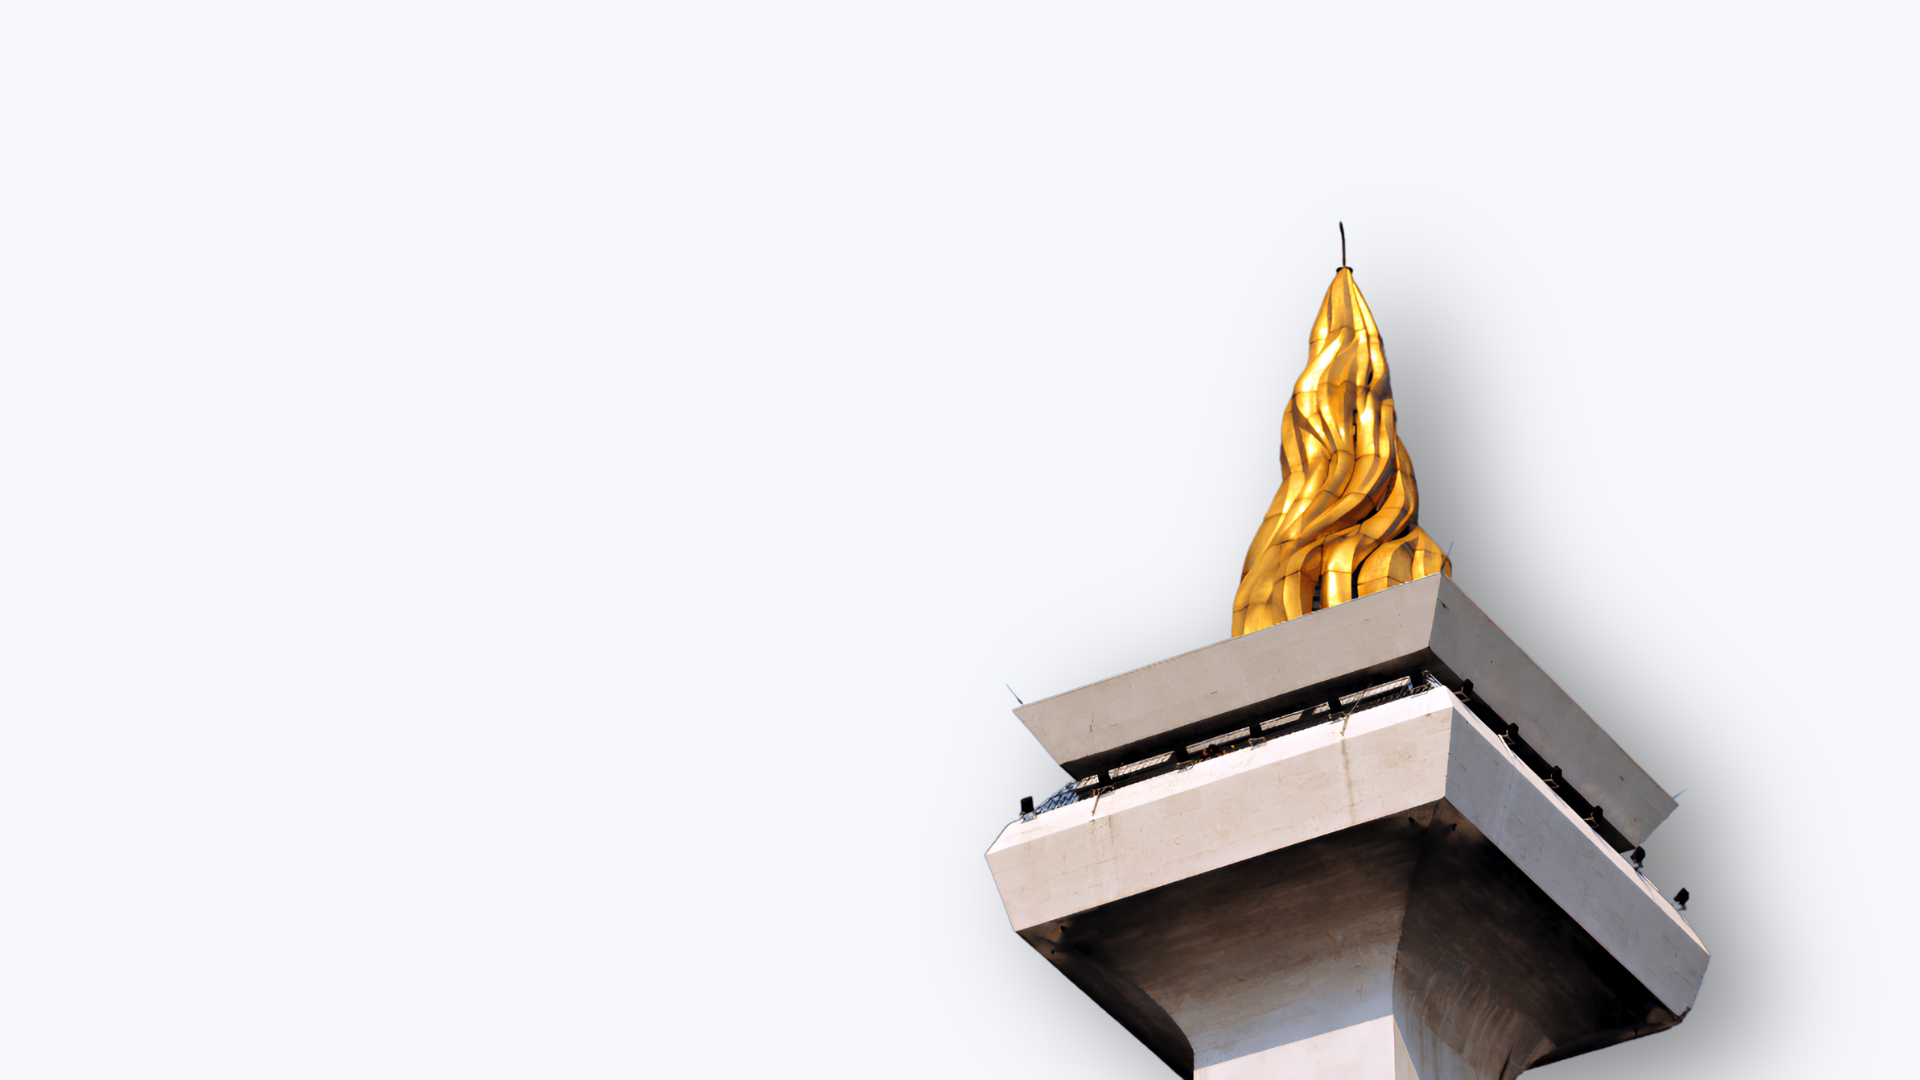
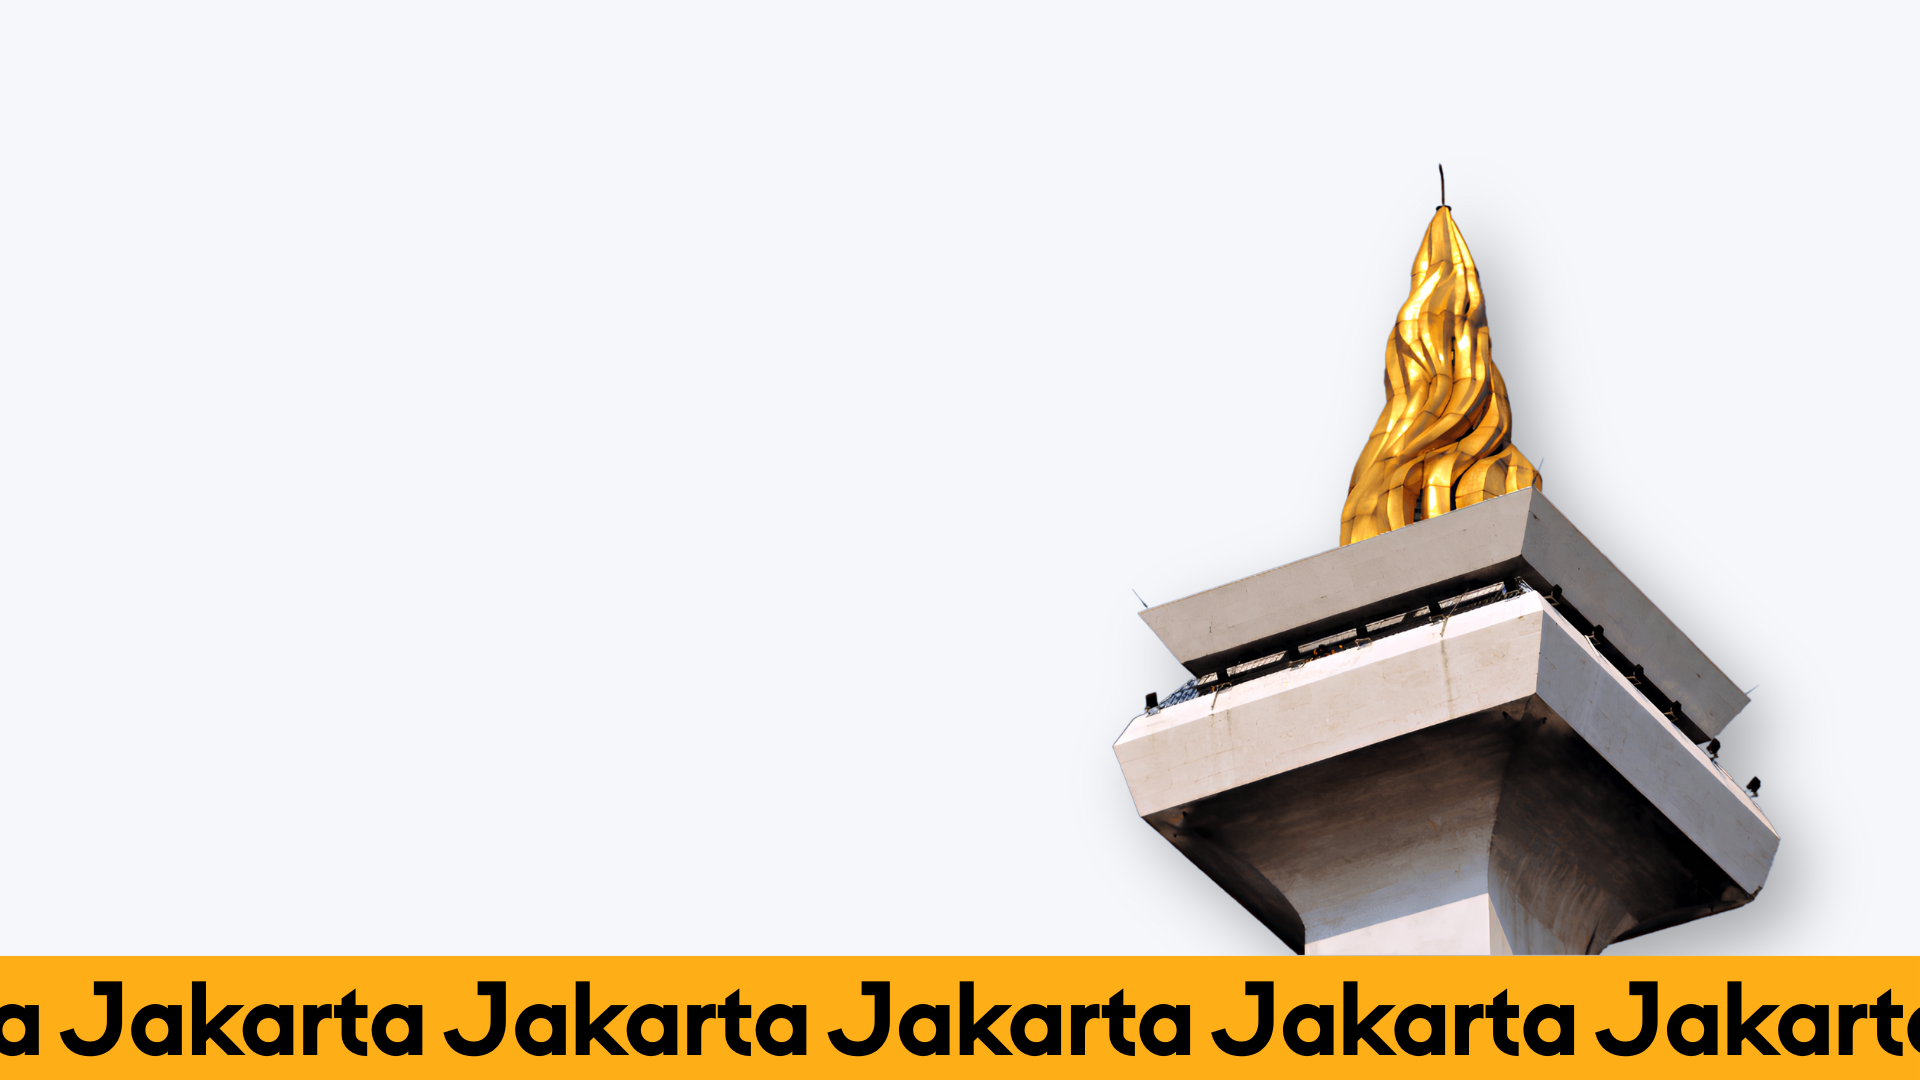
added ar2 sections

Changed region(s): [[0.0, 0.1833, 1.0, 1.0]]

diff --git a/style.css b/style.css
@@ -1,6 +1,9 @@
 @import url('https://fonts.googleapis.com/css2?family=Poppins:ital,wght@0,100;0,200;0,300;0,400;0,500;0,600;0,700;0,800;0,900;1,100;1,200;1,300;1,400;1,500;1,600;1,700;1,800;1,900&display=swap');
 @import url('https://fonts.googleapis.com/css2?family=Lexend:wght@100..900&display=swap');
 
+html {
+      scroll-behavior: smooth;
+}
 body {
       font-family: "Poppins", sans-serif;
       background-color: rgb(246, 247, 251);
@@ -53,11 +56,17 @@ li a {
       padding: 0vh 1vw;
 }
 
+li:hover, a:hover {
+      color: rgb(218, 149, 22);
+}
+
 .ar1 {
       background-image: url(resources/bghero.png);
+      background-position: center center;
+      background-size: cover;
+      background-repeat: no-repeat;
       display: flex;
       height: 100vh;
-      width: 100vw;
       align-items: center;
 }
 
@@ -79,16 +88,84 @@ li a {
 }
 
 .ar1sec1 span {
-      background-color: black;
       padding: 0.5vh 0.5vw;
       border-radius: 1vw;
-      color: white;
+      color: black;
       font-family: "Lexend", sans-serif;
       font-weight: 600;
-      font-size: 5vw;
+      font-size: 7vw;
 }
 
 .ar1sec1 p {
       font-size: 1.5vw;
 }
 
+.ar2 {
+      display: flex;
+      flex-direction: column;
+      height: 100vh;
+      padding-top: 10vh;
+}
+
+.ar2sec1 {
+      display: flex;
+      flex-direction: column;
+      justify-content: center;
+      width: 60vw;
+      padding: 3vh 3vw;
+      margin: 0 0;
+}
+
+.ar2sec1title {
+      display: flex;
+      background-color: rgb(254, 174, 23);
+      padding: 1vh 1vw;
+      margin: 0 0;
+      color: black;
+      align-items: center;
+      border-top-left-radius: 1vw;
+      border-top-right-radius: 1vw;
+}
+
+.ar2sec1title h2 {
+      padding: 0 0;
+      margin: 0 0;
+      font-size: 2vw;
+      font-weight: 500;
+}
+
+.ar2sec1content {
+      display: flex;
+      flex-direction: column;
+      text-align: left;
+      gap: 3vh;
+      background-color: white;
+      padding: 1vh 1vw;
+      margin: 0 0;
+      border-bottom-left-radius: 1vw;
+      border-bottom-right-radius: 1vw;
+}
+
+.ar2sec1content p {
+      font-size: 1.5vw;
+      padding: 0 0;
+      margin: 0 0;
+}
+
+.ar2sec1content span {
+      font-size: 1.3vw;
+      padding: 0 0;
+      margin: 0 0;
+}
+
+.ar2sec1content a {
+      text-decoration: none;
+      color: rgb(218, 149, 22);
+      padding: 0 0;
+      margin: 0 0;
+}
+
+.ar2sec1title:hover, .ar2sec1content:hover {
+      box-shadow: 0px 0px 50px rgba(118, 116, 116, 0.1);
+      transition: linear 0.2s;
+}

diff --git a/index.html b/index.html
@@ -38,6 +38,28 @@
                               <img src="" alt="">
                         </div>
                   </article>
+                  <article class="ar2" id="seja">
+                        <div class="ar2sec1">
+                              <div class="ar2sec1title">
+                                    <h2>Sejarah Jakarta</h2>
+                              </div>
+                              <div class="ar2sec1content">
+                                    <p>Jakarta bermula dari pelabuhan kecil di estuari sungai Ciliwung sekitar 500 tahun yang lalu. Lambat laun, pelabuhan
+                                    kecil ini bertransformasi menjadi pusat perdagangan internasional yang mempertemukan ragam bangsa di dunia. Rekam jejak
+                                    Jakarta bisa ditemukan melalui beberapa prasasti yang ditemukan di sekitar pelabuhan dan sepanjang sungai Ciliwung.
+                                    
+                                    Sejarah tentang Jakarta tercatat oleh para pengembara Eropa di abad ke-16. Kala itu, Jakarta marak disebut sebagai
+                                    Kalapa, yang merupakan pelabuhan utama kerajaan Sunda. Pelabuhan yang turut menjadi pusat perniagaan Portugis kala itu
+                                    diserang oleh Pangeran Fatahillah pada 22 Juni 1527. Sejak itu, Pangeran Fatahillah mengganti nama Sunda Kalapa menjadi
+                                    Jayakarta. Tanggal penyerangan itu hinggakini diperingati sebagai HUT Kota Jakarta.
+                                    </p>
+                                    <p><span>Sumber: <a href="https://www.jakarta.go.id/sejarah-jakarta">Pemprov DKI Jakarta</a></span></p>
+                              </div>
+                        </div>
+                        <div class="ar2sec2">
+                              
+                        </div>
+                  </article>
             </div>
       </main>
 </body>
